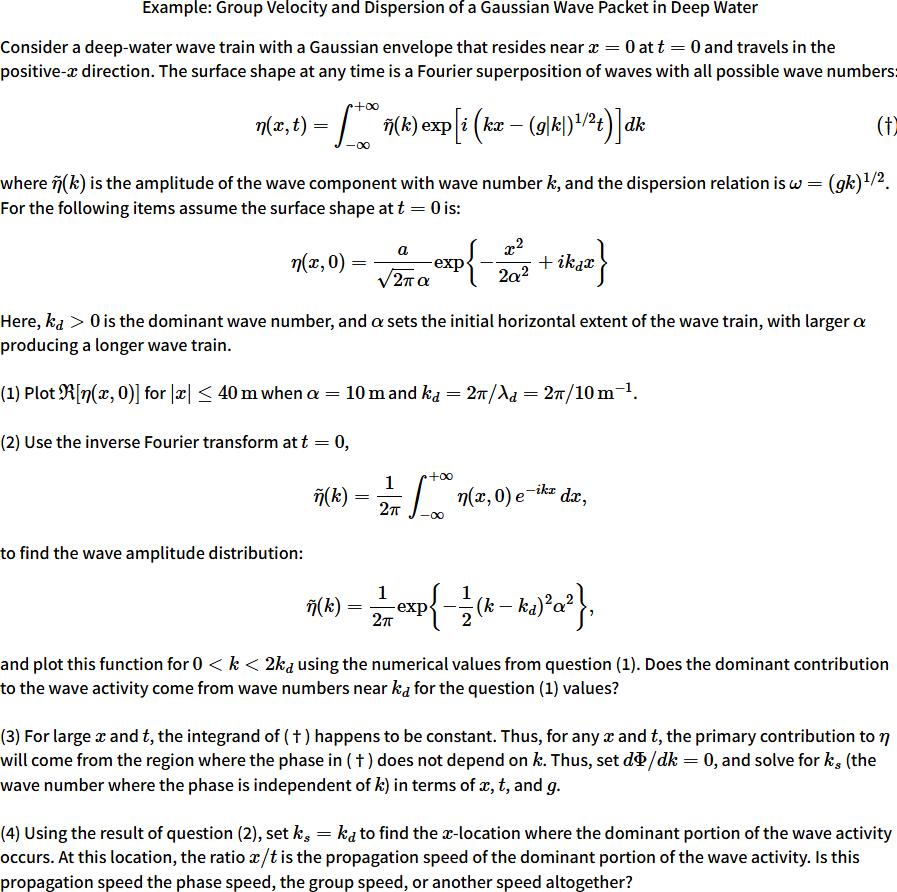
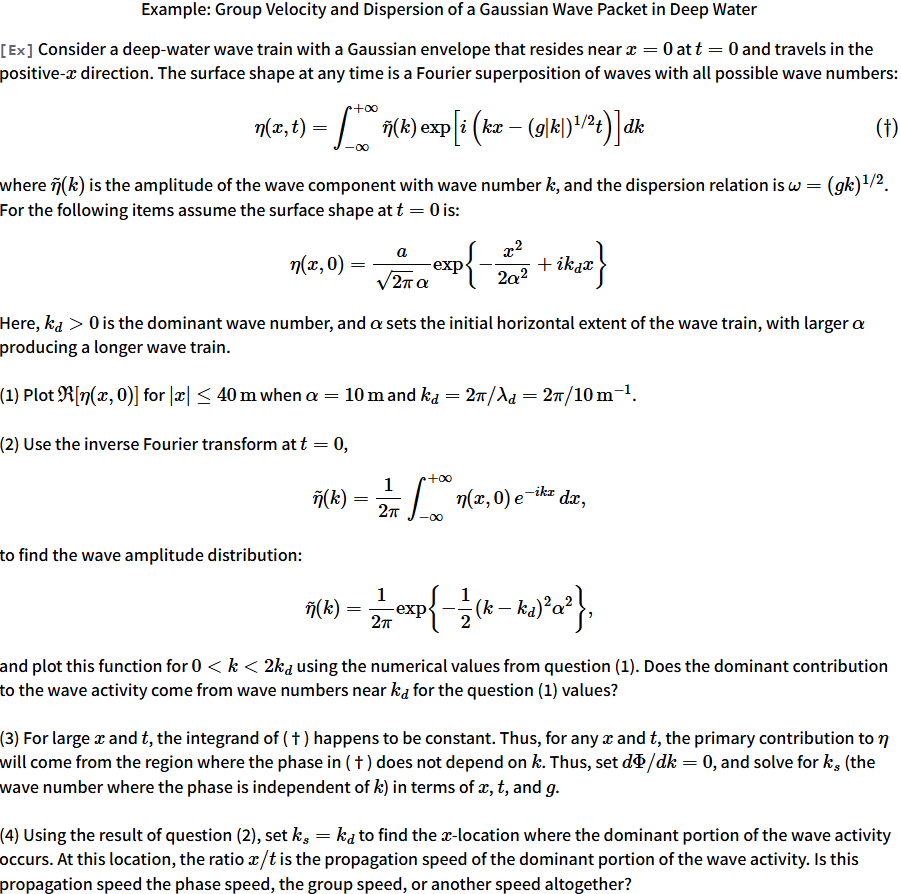
Update

diff --git a/PS2Slide29.html b/PS2Slide29.html
@@ -166,7 +166,7 @@ window.addEventListener('resize', scaleContainer);
 
         <div class="slide">
 <p>
-Consider a deep-water wave train with a Gaussian envelope that resides
+<span class="sql">[Ex]</span> Consider a deep-water wave train with a Gaussian envelope that resides
 near \( x = 0 \) at \( t = 0 \) and travels in the positive-\(x\) direction. The surface shape at
 any time is a Fourier superposition of waves with all possible wave
 numbers:
